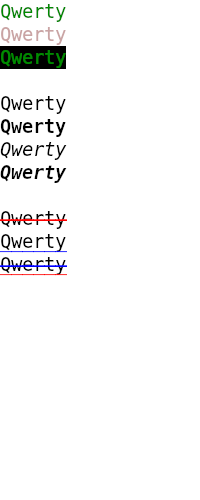
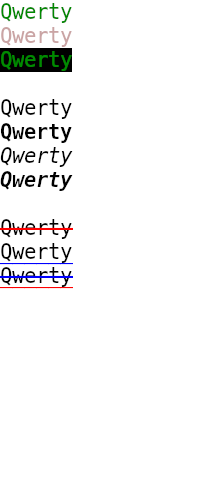
Change default font size to 17.

Changed region(s): [[0.0, 0.18, 0.36, 0.39], [0.0, 0.42, 0.36, 0.6], [0.0, 0.0, 0.36, 0.15]]

diff --git a/window.go b/window.go
@@ -15,7 +15,7 @@ import (
 	"github.com/pekim/dull/internal/font"
 )
 
-const defaultFontSize = 15.5
+const defaultFontSize = 17.0
 const fontZoomDelta = 0.75
 
 type keybinding struct {

diff --git a/_demo/text/main.go b/_demo/text/main.go
@@ -82,7 +82,6 @@ func initialise(app *dull.Application, err error) {
 
 	window.SetTitle("dull - text")
 	window.SetPosition(200, 200)
-	window.SetFontSize(17)
 	window.Show()
 }
 
